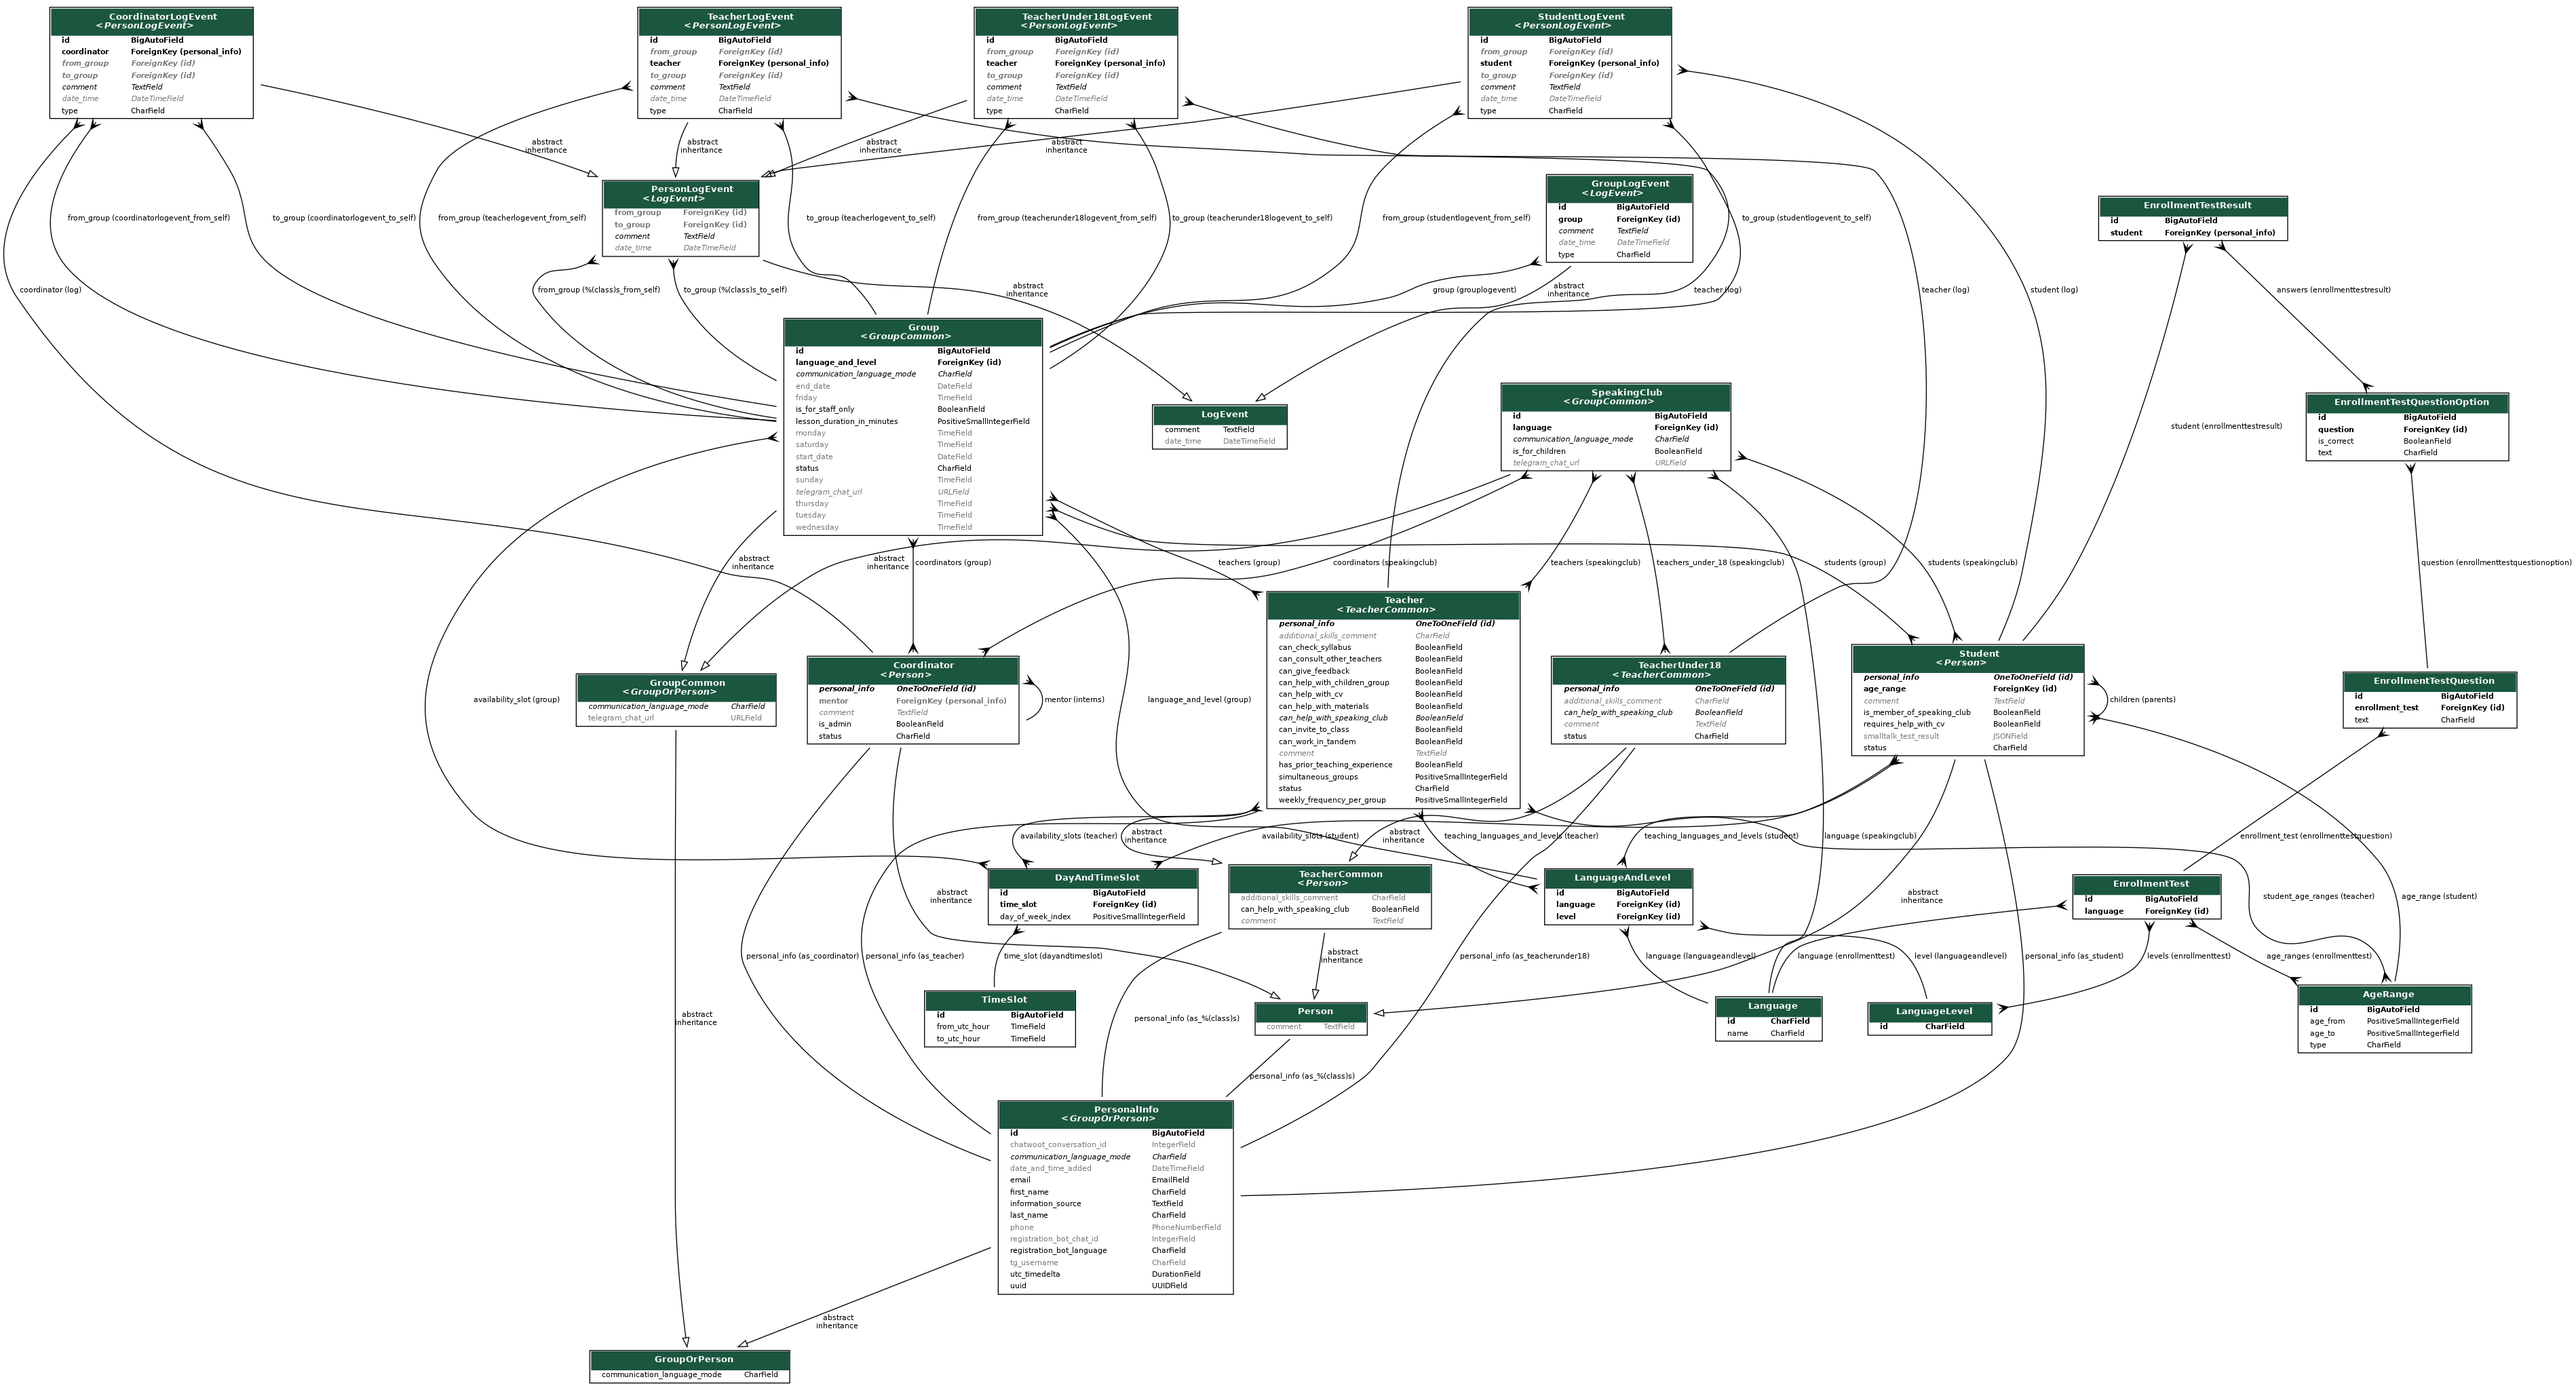
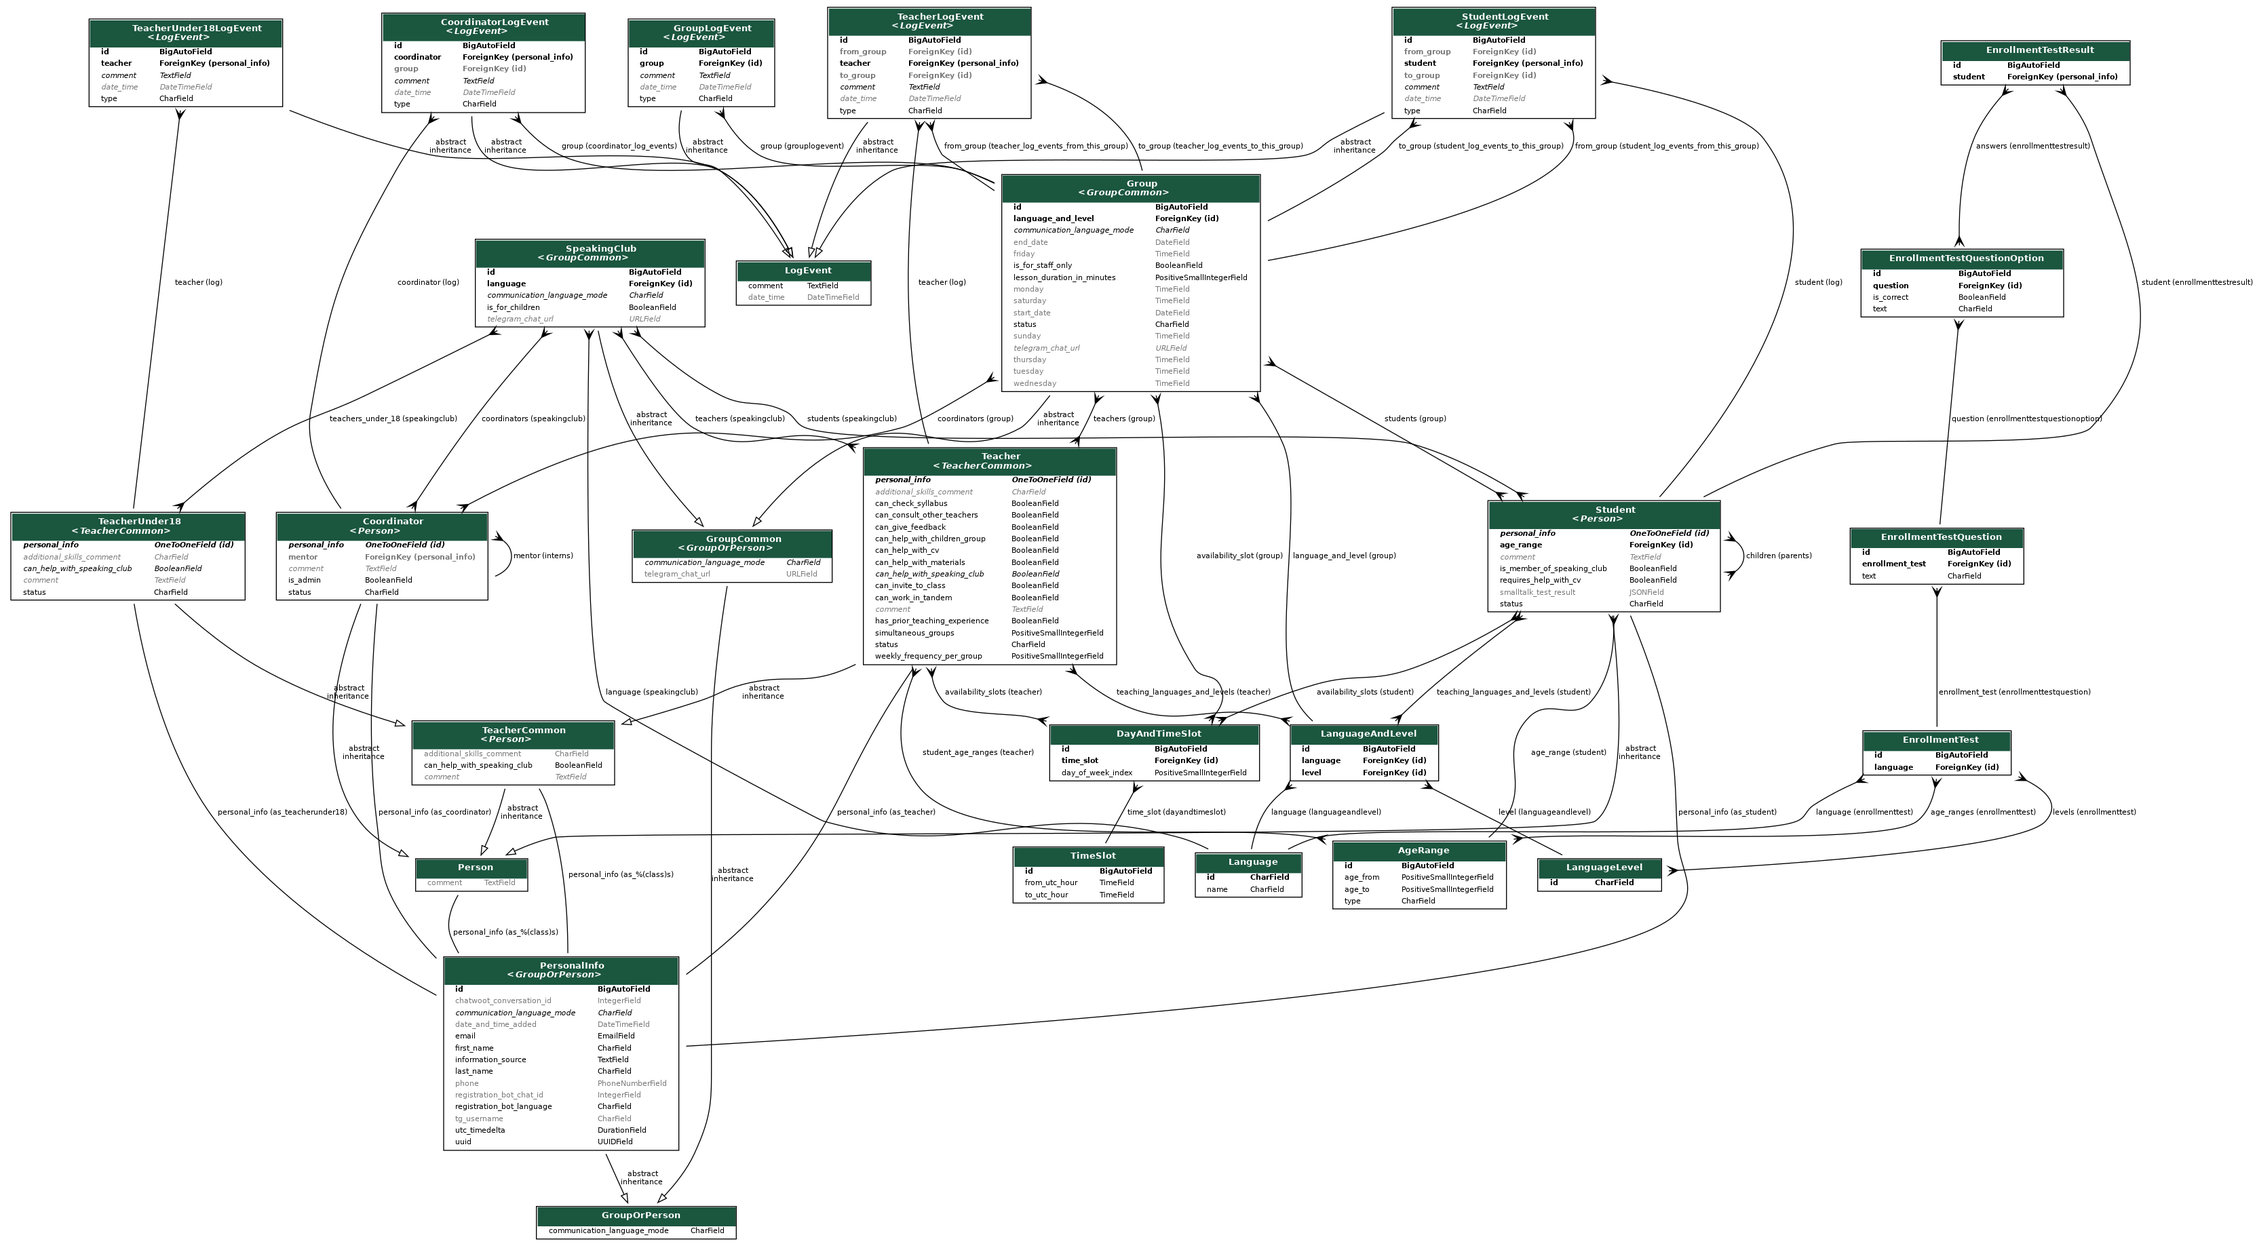
remove abstract `PersonLogEvent`
It only had attributes `from_group` and `to_group`.

* CoordinatorLogEvent doesn't need these columns
  because coordinators don't get transferred from
  or to a group. They take or give away groups.
  So CoordinatorLogEvent only needs a "group" column.
* TeacherUnder18LogEvent doesn't need any "...group"
  columns because young teachers don't work with groups.
* That leaves only StudentLogEvent and TeacherLogEvent.
  It is more readable if we declare "from_group" and
  "to_group" in those models directly, which will also
  give more readable "related_name" to each of them

diff --git a/api/models/log_events.py b/api/models/log_events.py
@@ -29,6 +29,68 @@ class LogEvent(models.Model):
         abstract = True
 
 
+class CoordinatorLogEvent(LogEvent):
+    """Model for a log event concerning a coordinator."""
+
+    class EventType(models.TextChoices):
+        APPLIED = "applied", "Applied for the role"
+        JOINED = "joined", "Joined the team"
+        STARTED_ONBOARDING = "onboarding_start", "Started onboarding"
+        FINISHED_ONBOARDING = "onboarding_end", "Finished onboarding"
+        TOOK_NEW_GROUP = (
+            "took_new_group",
+            "Took a new group (not transferred from another coordinator)",
+        )
+        GROUP_STARTED_CLASSES = "group_started_classes", "The group started classes"
+        REQUESTED_TRANSFER = (
+            "requested_transfer",
+            "Requested that the group be transferred to a different coordinator",
+        )
+        TRANSFER_CANCELED = (
+            "transfer_canceled",
+            "Transfer canceled (declined or the coordinator changed their mind)",
+        )
+        TRANSFER_COMPLETED = "transferred", "Transfer of group to another coordinator completed"
+        TOOK_TRANSFERRED_GROUP = "took_transfer", "Received group from another coordinator"
+        REQUESTED_LEAVE = "requested_leave", "Requested a leave"
+        LEAVE_CONFIRMED = "leave_confirmed", "Leave confirmed"
+        RETURNED_FROM_LEAVE = "returned_from_leave", "Returned from leave"
+        DECLINED = "declined_to_continue", "Declined to continue participating in the project"
+        FINISHED_AND_LEAVING = (
+            "finished_and_leaving",
+            "Finished working and announced that they are leaving the project",
+        )
+        FINISHED_AND_STAYING = (
+            "finished_and_staying",
+            "Finished working and announced that they are staying in the project",
+        )
+        ACCESS_REVOKED = "access_revoked", "Access to corporate resources revoked"
+
+    coordinator = models.ForeignKey(Coordinator, related_name="log", on_delete=models.CASCADE)
+    group = models.ForeignKey(
+        Group,
+        null=True,
+        blank=True,
+        related_name="coordinator_log_events",
+        on_delete=models.CASCADE,
+    )
+    type = models.CharField(
+        max_length=DEFAULT_CHOICE_CHAR_FIELD_MAX_LENGTH, choices=EventType.choices
+    )
+
+    class Meta:
+        indexes = [
+            models.Index(fields=("coordinator_id",), name="coordinator_id_idx"),
+            models.Index(fields=("type",), name="coordinator_log_event_type_idx"),
+        ]
+
+    def __str__(self) -> str:
+        return (
+            f"{self.date_as_str}: coordinator {self.coordinator.personal_info.full_name} "
+            f"{self.get_type_display()}"
+        )
+
+
 class GroupLogEvent(LogEvent):
     """Model for a log event concerning a group."""
 
@@ -74,84 +136,7 @@ class GroupLogEvent(LogEvent):
         return f"{self.date_as_str}: group {self.group} {self.get_type_display()}"
 
 
-class PersonLogEvent(LogEvent):
-    """Abstract class for a log event concerning a person."""
-
-    from_group = models.ForeignKey(
-        Group,
-        null=True,
-        blank=True,
-        on_delete=models.CASCADE,
-        related_name="%(class)s_from_self",  # will produce e.g. "studentLogEvents_from_self"
-    )
-    to_group = models.ForeignKey(
-        Group,
-        null=True,
-        blank=True,
-        on_delete=models.CASCADE,
-        related_name="%(class)s_to_self",
-    )
-
-    class Meta:
-        abstract = True
-
-
-class CoordinatorLogEvent(PersonLogEvent):
-    """Model for a log event concerning a coordinator."""
-
-    class EventType(models.TextChoices):
-        APPLIED = "applied", "Applied for the role"
-        JOINED = "joined", "Joined the team"
-        STARTED_ONBOARDING = "onboarding_start", "Started onboarding"
-        FINISHED_ONBOARDING = "onboarding_end", "Finished onboarding"
-        TOOK_NEW_GROUP = (
-            "took_new_group",
-            "Took a new group (not transferred from another coordinator)",
-        )
-        GROUP_STARTED_CLASSES = "group_started_classes", "The group started classes"
-        REQUESTED_TRANSFER = (
-            "requested_transfer",
-            "Requested that the group be transferred to a different coordinator",
-        )
-        TRANSFER_CANCELED = (
-            "transfer_canceled",
-            "Transfer canceled (declined or the coordinator changed their mind)",
-        )
-        TRANSFER_COMPLETED = "transferred", "Transfer of group to another coordinator completed"
-        TOOK_TRANSFERRED_GROUP = "took_transfer", "Received group from another coordinator"
-        REQUESTED_LEAVE = "requested_leave", "Requested a leave"
-        LEAVE_CONFIRMED = "leave_confirmed", "Leave confirmed"
-        RETURNED_FROM_LEAVE = "returned_from_leave", "Returned from leave"
-        DECLINED = "declined_to_continue", "Declined to continue participating in the project"
-        FINISHED_AND_LEAVING = (
-            "finished_and_leaving",
-            "Finished working and announced that they are leaving the project",
-        )
-        FINISHED_AND_STAYING = (
-            "finished_and_staying",
-            "Finished working and announced that they are staying in the project",
-        )
-        ACCESS_REVOKED = "access_revoked", "Access to corporate resources revoked"
-
-    coordinator = models.ForeignKey(Coordinator, related_name="log", on_delete=models.CASCADE)
-    type = models.CharField(
-        max_length=DEFAULT_CHOICE_CHAR_FIELD_MAX_LENGTH, choices=EventType.choices
-    )
-
-    class Meta:
-        indexes = [
-            models.Index(fields=("coordinator_id",), name="coordinator_id_idx"),
-            models.Index(fields=("type",), name="coordinator_log_event_type_idx"),
-        ]
-
-    def __str__(self) -> str:
-        return (
-            f"{self.date_as_str}: coordinator {self.coordinator.personal_info.full_name} "
-            f"{self.get_type_display()}"
-        )
-
-
-class StudentLogEvent(PersonLogEvent):
+class StudentLogEvent(LogEvent):
     """Model for a log event concerning a student."""
 
     class EventType(models.TextChoices):
@@ -177,6 +162,20 @@ class StudentLogEvent(PersonLogEvent):
         FINISHED_LEFT = "finished_left", "Completed the course and left the project"
         FINISHED_STAYS = "finished_stays", "Completed the course and wants to join another group"
 
+    from_group = models.ForeignKey(
+        Group,
+        null=True,
+        blank=True,
+        on_delete=models.CASCADE,
+        related_name="student_log_events_from_this_group",
+    )
+    to_group = models.ForeignKey(
+        Group,
+        null=True,
+        blank=True,
+        on_delete=models.CASCADE,
+        related_name="student_log_events_to_this_group",
+    )
     student = models.ForeignKey(Student, related_name="log", on_delete=models.CASCADE)
     type = models.CharField(
         max_length=DEFAULT_CHOICE_CHAR_FIELD_MAX_LENGTH, choices=EventType.choices
@@ -195,7 +194,7 @@ class StudentLogEvent(PersonLogEvent):
         )
 
 
-class TeacherLogEvent(PersonLogEvent):
+class TeacherLogEvent(LogEvent):
     """Model for a log event concerning an adult teacher."""
 
     class EventType(models.TextChoices):
@@ -217,6 +216,20 @@ class TeacherLogEvent(PersonLogEvent):
         FINISHED_LEFT = "finished_left", "Completed the course and left the project"
         FINISHED_STAYS = "finished_stays", "Completed the course and wants to join another group"
 
+    from_group = models.ForeignKey(
+        Group,
+        null=True,
+        blank=True,
+        on_delete=models.CASCADE,
+        related_name="teacher_log_events_from_this_group",
+    )
+    to_group = models.ForeignKey(
+        Group,
+        null=True,
+        blank=True,
+        on_delete=models.CASCADE,
+        related_name="teacher_log_events_to_this_group",
+    )
     teacher = models.ForeignKey(Teacher, related_name="log", on_delete=models.CASCADE)
     type = models.CharField(
         max_length=DEFAULT_CHOICE_CHAR_FIELD_MAX_LENGTH, choices=EventType.choices
@@ -235,7 +248,7 @@ class TeacherLogEvent(PersonLogEvent):
         )
 
 
-class TeacherUnder18LogEvent(PersonLogEvent):
+class TeacherUnder18LogEvent(LogEvent):
     """Model for a log event concerning a young teacher."""
 
     class EventType(models.TextChoices):

diff --git a/api/migrations/0001_initial.py b/api/migrations/0001_initial.py
@@ -1,4 +1,4 @@
-# Generated by Django 4.1.7 on 2023-03-23 10:50
+# Generated by Django 4.1.7 on 2023-03-23 11:09
 
 import datetime
 from django.db import migrations, models
@@ -60,17 +60,21 @@ class Migration(migrations.Migration):
                             ("joined", "Joined the team"),
                             ("onboarding_start", "Started onboarding"),
                             ("onboarding_end", "Finished onboarding"),
-                            ("took_group", "Took a group"),
+                            (
+                                "took_new_group",
+                                "Took a new group (not transferred from another coordinator)",
+                            ),
                             ("group_started_classes", "The group started classes"),
                             (
                                 "requested_transfer",
                                 "Requested that the group be transferred to a different coordinator",
                             ),
-                            ("transferred", "Transferred to another group"),
                             (
                                 "transfer_canceled",
                                 "Transfer canceled (declined or the coordinator changed their mind)",
                             ),
+                            ("transferred", "Transfer of group to another coordinator completed"),
+                            ("took_transfer", "Received group from another coordinator"),
                             ("requested_leave", "Requested a leave"),
                             ("leave_confirmed", "Leave confirmed"),
                             ("returned_from_leave", "Returned from leave"),
@@ -775,35 +779,13 @@ class Migration(migrations.Migration):
             ),
         ),
         migrations.AddField(
-            model_name="teacherunder18logevent",
-            name="from_group",
-            field=models.ForeignKey(
-                blank=True,
-                null=True,
-                on_delete=django.db.models.deletion.CASCADE,
-                related_name="%(class)s_from_self",
-                to="api.group",
-            ),
-        ),
-        migrations.AddField(
-            model_name="teacherunder18logevent",
-            name="to_group",
-            field=models.ForeignKey(
-                blank=True,
-                null=True,
-                on_delete=django.db.models.deletion.CASCADE,
-                related_name="%(class)s_to_self",
-                to="api.group",
-            ),
-        ),
-        migrations.AddField(
             model_name="teacherlogevent",
             name="from_group",
             field=models.ForeignKey(
                 blank=True,
                 null=True,
                 on_delete=django.db.models.deletion.CASCADE,
-                related_name="%(class)s_from_self",
+                related_name="teacher_log_events_from_this_group",
                 to="api.group",
             ),
         ),
@@ -814,7 +796,7 @@ class Migration(migrations.Migration):
                 blank=True,
                 null=True,
                 on_delete=django.db.models.deletion.CASCADE,
-                related_name="%(class)s_to_self",
+                related_name="teacher_log_events_to_this_group",
                 to="api.group",
             ),
         ),
@@ -825,7 +807,7 @@ class Migration(migrations.Migration):
                 blank=True,
                 null=True,
                 on_delete=django.db.models.deletion.CASCADE,
-                related_name="%(class)s_from_self",
+                related_name="student_log_events_from_this_group",
                 to="api.group",
             ),
         ),
@@ -836,7 +818,7 @@ class Migration(migrations.Migration):
                 blank=True,
                 null=True,
                 on_delete=django.db.models.deletion.CASCADE,
-                related_name="%(class)s_to_self",
+                related_name="student_log_events_to_this_group",
                 to="api.group",
             ),
         ),
@@ -941,23 +923,12 @@ class Migration(migrations.Migration):
         ),
         migrations.AddField(
             model_name="coordinatorlogevent",
-            name="from_group",
+            name="group",
             field=models.ForeignKey(
                 blank=True,
                 null=True,
                 on_delete=django.db.models.deletion.CASCADE,
-                related_name="%(class)s_from_self",
-                to="api.group",
-            ),
-        ),
-        migrations.AddField(
-            model_name="coordinatorlogevent",
-            name="to_group",
-            field=models.ForeignKey(
-                blank=True,
-                null=True,
-                on_delete=django.db.models.deletion.CASCADE,
-                related_name="%(class)s_to_self",
+                related_name="coordinator_log_events",
                 to="api.group",
             ),
         ),

diff --git a/api/models/__init__.py b/api/models/__init__.py
@@ -13,9 +13,9 @@ from .log_events import (
     CoordinatorLogEvent,
     GroupLogEvent,
     LogEvent,
-    PersonLogEvent,
     StudentLogEvent,
     TeacherLogEvent,
+    TeacherUnder18LogEvent,
 )
 from .people import Coordinator, PersonalInfo, Student, Teacher, TeacherUnder18
 
